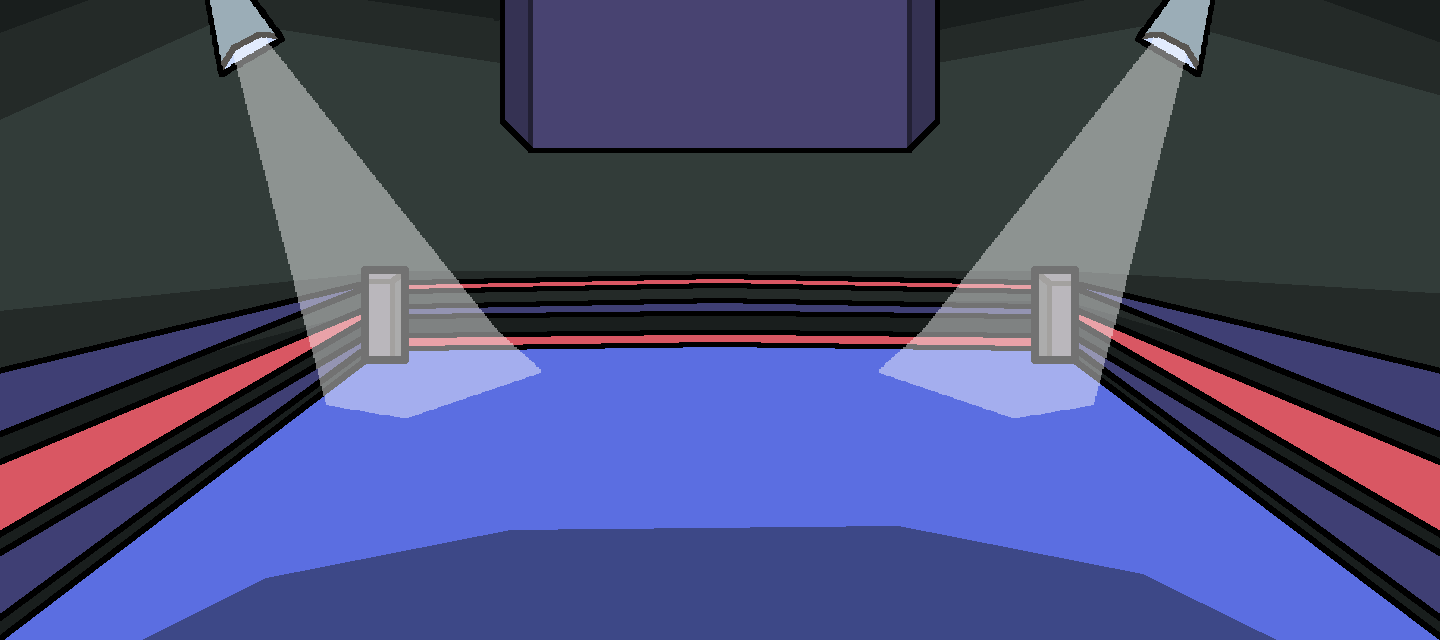
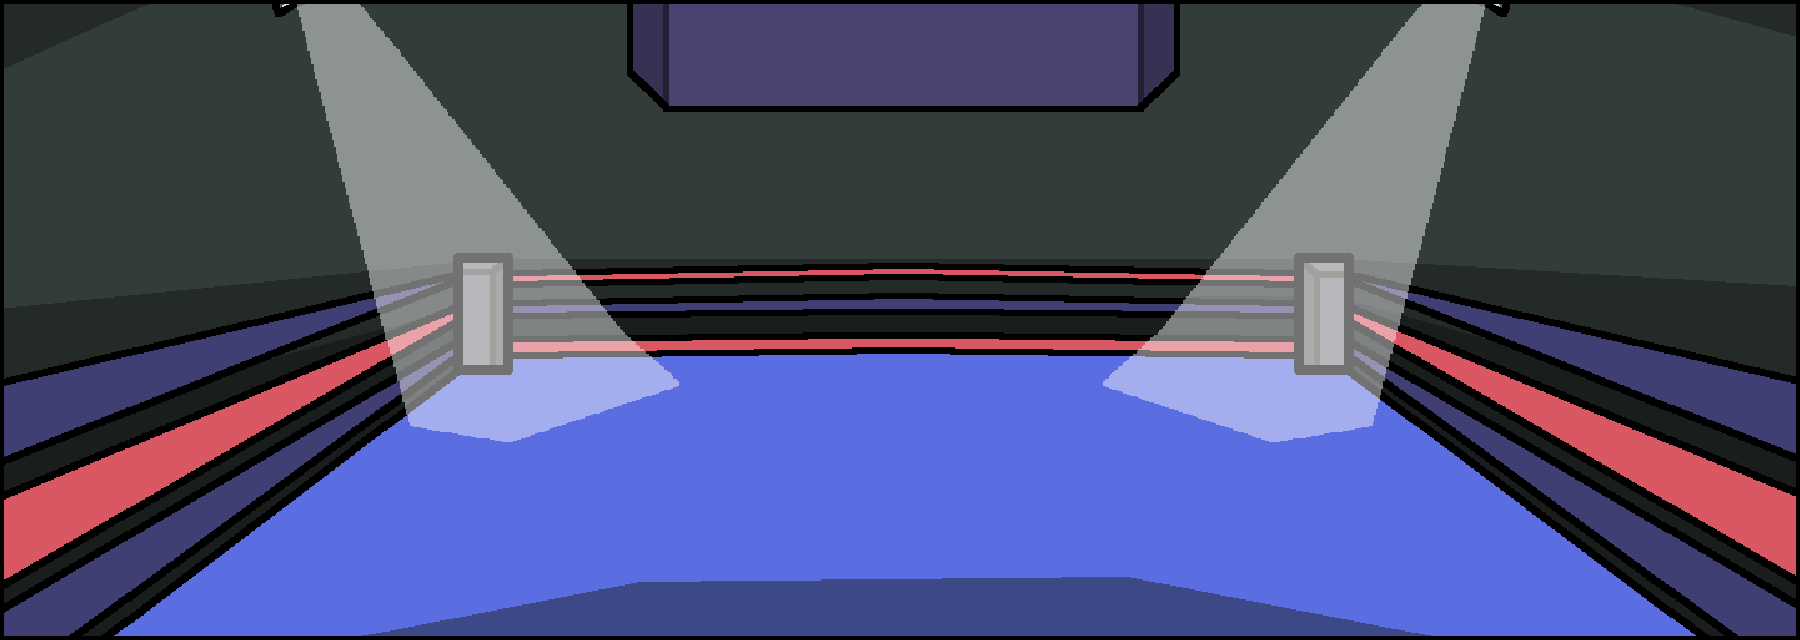
dodging tween fix

diff --git a/src/scenes/Play.js b/src/scenes/Play.js
@@ -15,7 +15,7 @@ class Play extends Phaser.Scene {
 
 	create() {
 		//Background
-		this.add.image(width/2, 0, "background").setOrigin(0.5, 0);
+		this.background = this.add.image(width/2, 0, "background").setOrigin(0.5, 0);
 
 		//Animations
 		this.anims.create({
@@ -54,7 +54,6 @@ class Play extends Phaser.Scene {
 		this.enemyHealth = 100;
 		this.gameOver = false;
 		this.inputLockedOut = false;
-
 		this.punchFatigue = false
 
 		//Health UI - two rectangles, on top left and top right, both red
@@ -65,11 +64,6 @@ class Play extends Phaser.Scene {
    		this.LittleMac = new Enemy(this, width/2 + 400, 400, "Little Mac", 0, 3).setScale(.8)
 
 		//Time UI - top center, white
-		// this.timeRemainingText = this.add.text(width/2 - 20, 0, "Time: " + this.timeRemaining, {
-        //     fontFamily: "blockFont", 
-        //     fontSize: "20px", 
-        //     color: "#000000" 
-        // }).setOrigin(0.5, 0);
         this.timeRemainingText = this.add.bitmapText(width/2-20, 32, "blockFont", "TIME: " + this.timeRemaining, 20, 1).setOrigin(0.5, 0);
 
 		//Player Left Fist
@@ -274,19 +268,15 @@ class Play extends Phaser.Scene {
 			//Dodging
 			if (this.keyRIGHTDODGE.isDown && !this.inputLockedOut) { //Player Right Dodge
 				//handle right dodge visual movement
+				//tween little mac & background
 				this.tweens.add({
-					targets: this.LittleMac,
+					targets: [this.LittleMac, this.background, this.timeRemainingText],
 					paused: true,
 					yoyo: false,
-					x: {
-						from: this.LittleMac.x,
-						to: this.LittleMac.x-160,
-						duration: 550
-					}
+					x: '-=160',
+					duration: 550
 				}).play();
-
-				//handle right dodge hitbox movement
-
+				console.log(this.background.x);
 
 				//cooldown
 				this.inputLockedOut = true;
@@ -303,19 +293,15 @@ class Play extends Phaser.Scene {
       }
 			if (this.keyLEFTDODGE.isDown && !this.inputLockedOut) { //Player Left Dodge
 				//handle left dodge visual movement
+				//tween little mac & background
+				//canvas size is 1280. so the background should only scroll to maximum 520 i think? and 1280 the other way
 				this.tweens.add({
-					targets: this.LittleMac,
+					targets: [this.LittleMac, this.background, this.timeRemainingText],
 					paused: true,
 					yoyo: false,
-					x: {
-						from: this.LittleMac.x,
-						to: this.LittleMac.x+160,
-						duration: 550
-					}
+					x: '+=160',
+					duration: 550
 				}).play();
-
-				//handle left dodge hitbox movement
-
 
 				//cooldown
 				this.inputLockedOut = true;
